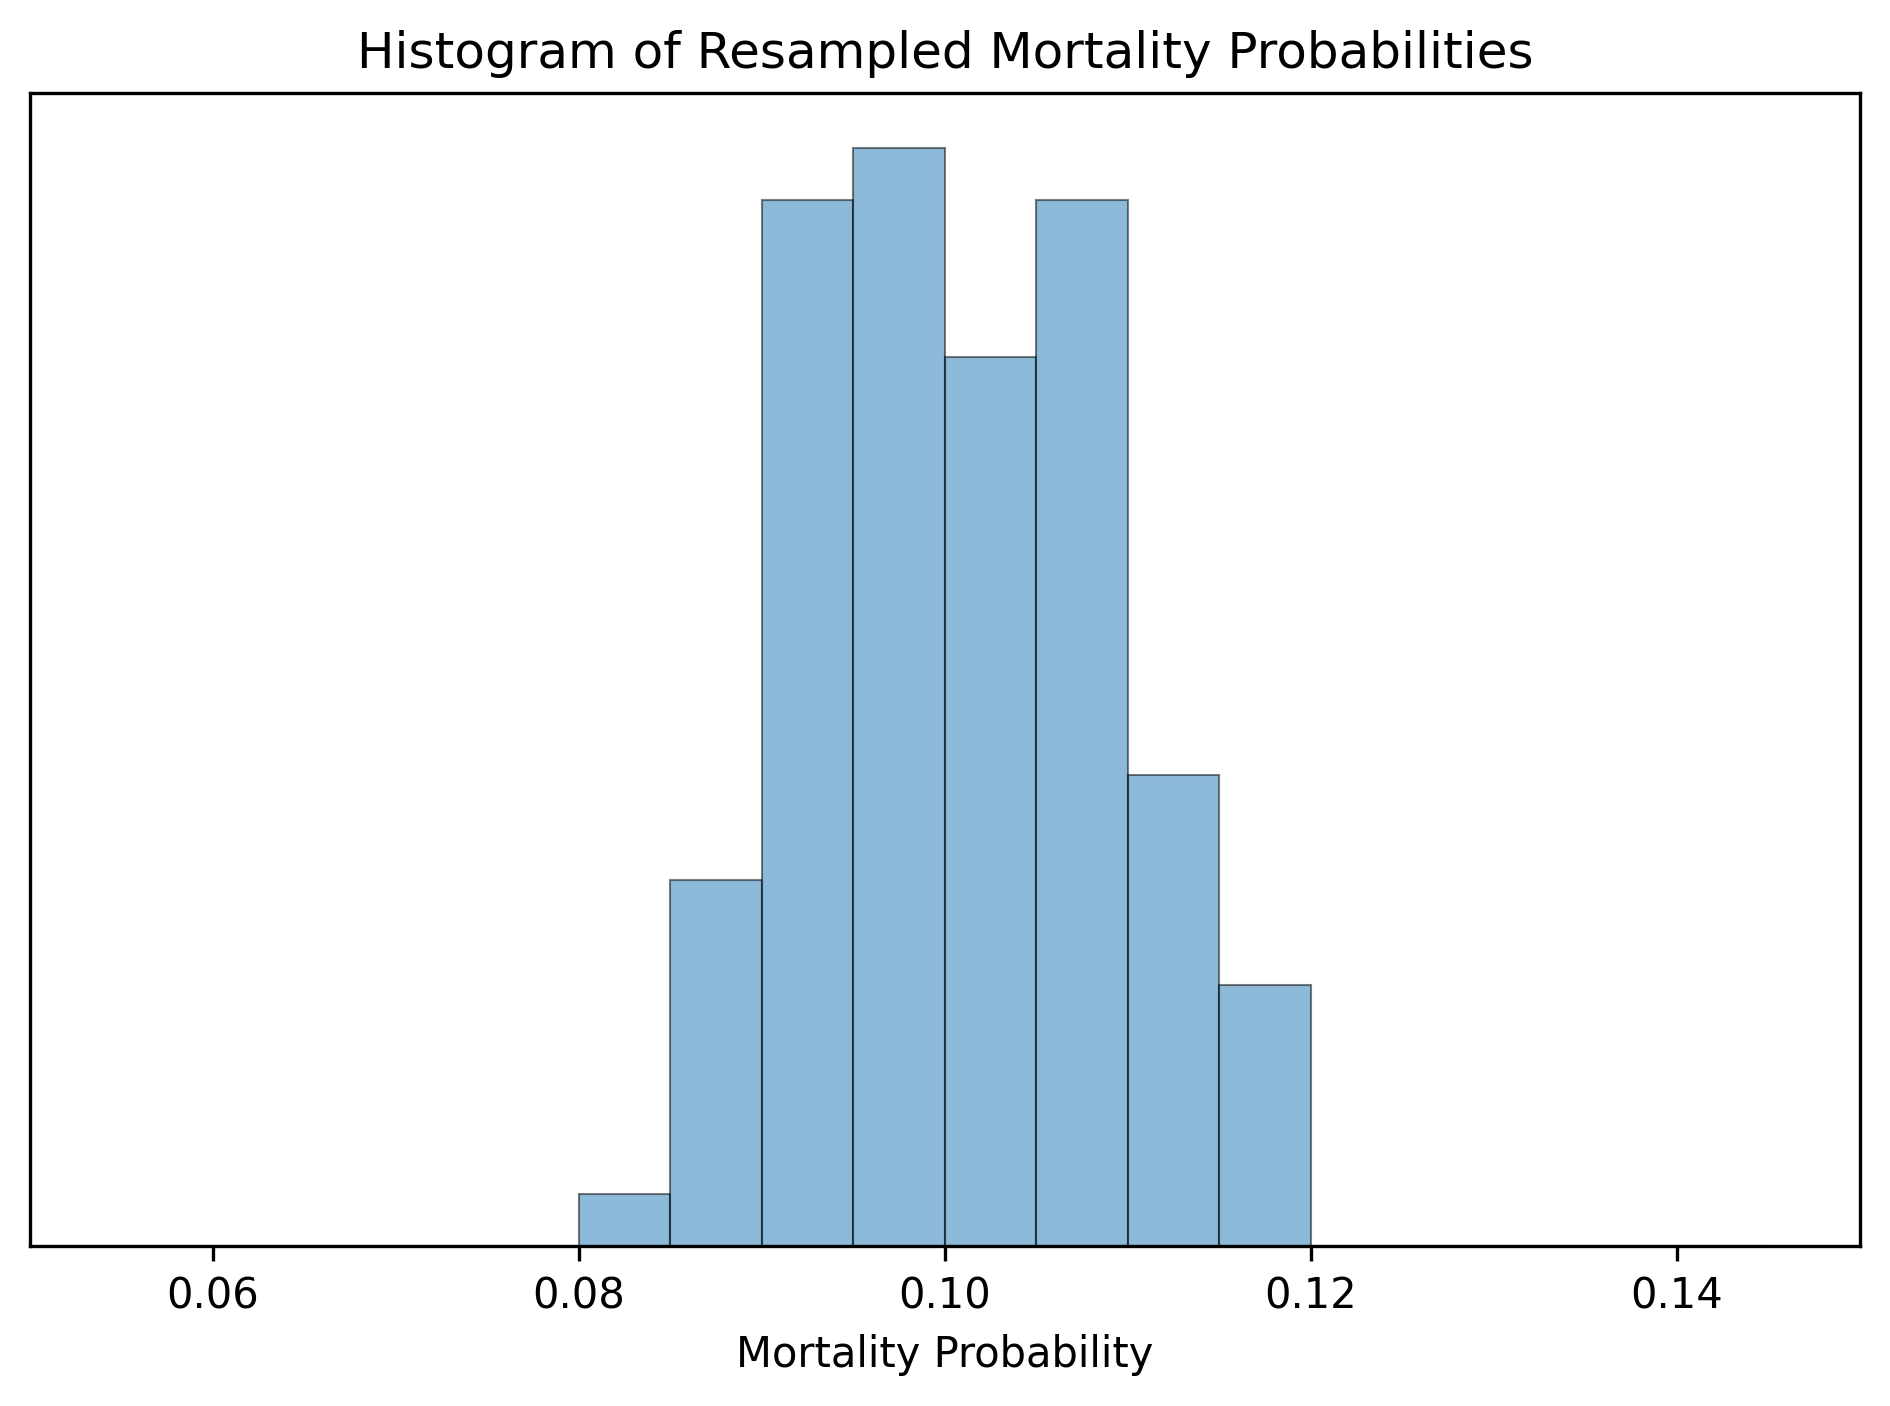
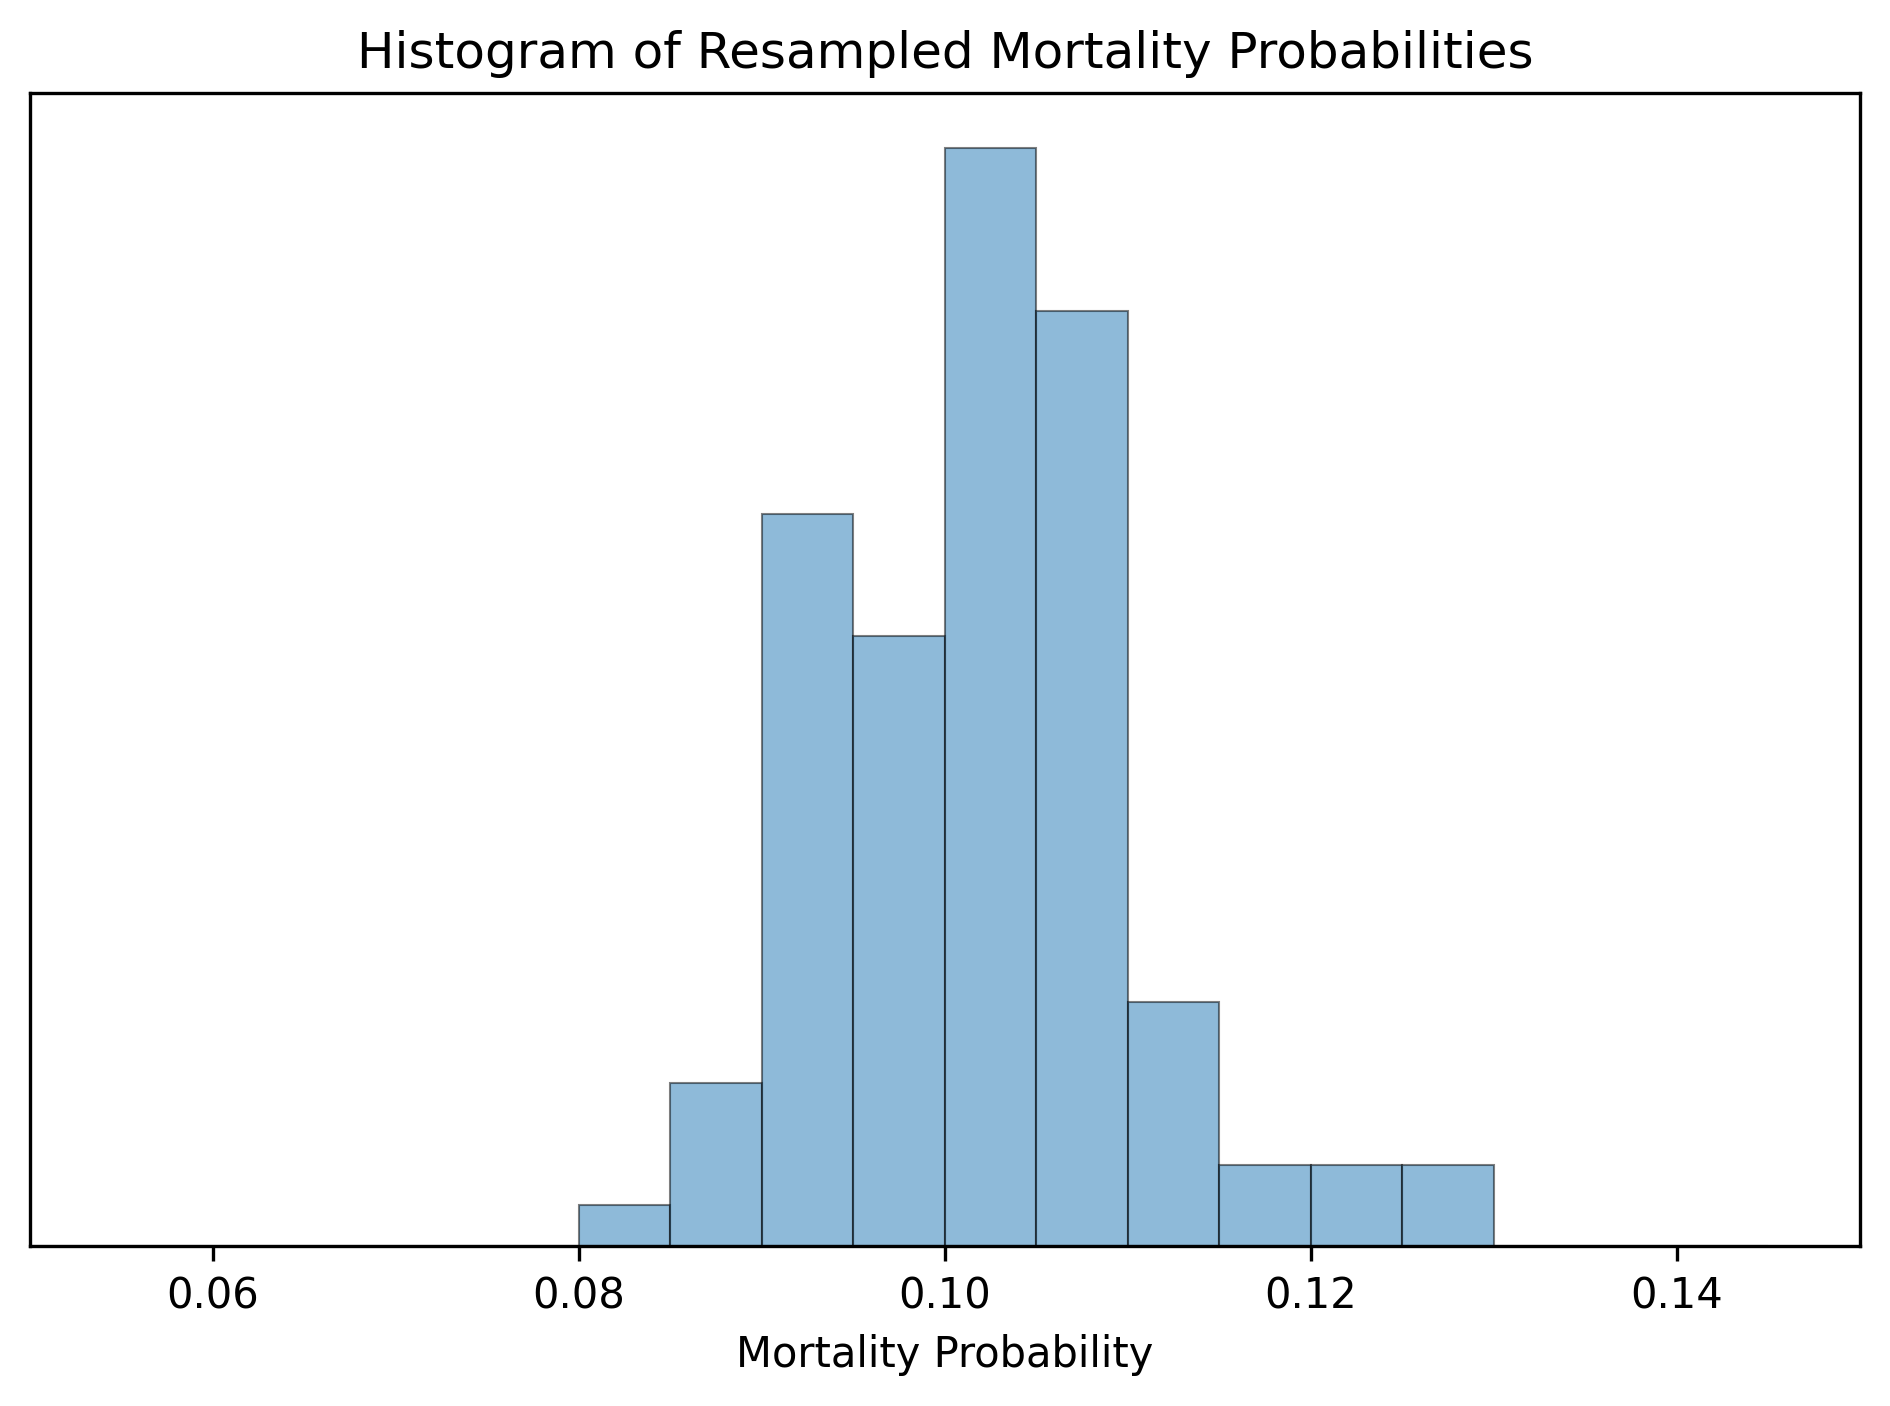
sol

diff --git a/CalibrationClasses.py b/CalibrationClasses.py
@@ -96,11 +96,10 @@ class Calibration:
 class CalibratedModel:
     """ to run the calibrated survival model """
 
-    def __init__(self, csv_file_name, drug_effectiveness_ratio=1):
+    def __init__(self, csv_file_name):
         """ extracts seeds, mortality probabilities and the associated likelihood from
         the csv file where the calibration results are stored
         :param csv_file_name: name of the csv file where the calibrated results are stored
-        :param drug_effectiveness_ratio: effectiveness of the drug
         """
 
         # read the columns of the csv files containing the calibration results
@@ -113,16 +112,15 @@ class CalibratedModel:
         # store likelihood weights, cohort IDs and sampled mortality probabilities
         self.cohortIDs = cols[CalibrationColIndex.ID.value].astype(int)
         self.weights = cols[CalibrationColIndex.W.value]
-        self.mortalityProbs = cols[CalibrationColIndex.MORT_PROB.value] * drug_effectiveness_ratio
+        self.mortalityProbs = cols[CalibrationColIndex.MORT_PROB.value]
         self.resampledMortalityProb = []
         self.multiCohorts = None  # multi-cohort
 
-    def simulate(self, num_of_simulated_cohorts, cohort_size, time_steps, cohort_ids=None):
+    def simulate(self, num_of_simulated_cohorts, cohort_size, time_steps):
         """ simulate the specified number of cohorts based on their associated likelihood weight
         :param num_of_simulated_cohorts: number of cohorts to simulate
         :param cohort_size: the population size of cohorts
         :param time_steps: simulation length
-        :param cohort_ids: ids of cohort to simulate
         """
         # resample cohort IDs and mortality probabilities based on their likelihood weights
         # sample (with replacement) from indices [0, 1, 2, ..., number of weights] based on the likelihood weights
@@ -139,18 +137,10 @@ class CalibratedModel:
             self.resampledMortalityProb.append(self.mortalityProbs[i])
 
         # simulate the desired number of cohorts
-        if cohort_ids is None:
-            # if cohort ids are not provided, use the ids stored in the calibration results
-            self.multiCohorts = SurvivalCls.MultiCohort(
-                ids=resampled_ids,
-                pop_sizes=[cohort_size] * num_of_simulated_cohorts,
-                mortality_probs=self.resampledMortalityProb)
-        else:
-            # if cohort ids are provided, use them instead of the ids stored in the calibration results
-            self.multiCohorts = SurvivalCls.MultiCohort(
-                ids=cohort_ids,
-                pop_sizes=[cohort_size] * num_of_simulated_cohorts,
-                mortality_probs=self.resampledMortalityProb)
+        self.multiCohorts = SurvivalCls.MultiCohort(
+            ids=resampled_ids,
+            pop_sizes=[cohort_size] * num_of_simulated_cohorts,
+            mortality_probs=self.resampledMortalityProb)
 
         # simulate all cohorts
         self.multiCohorts.simulate(time_steps)
